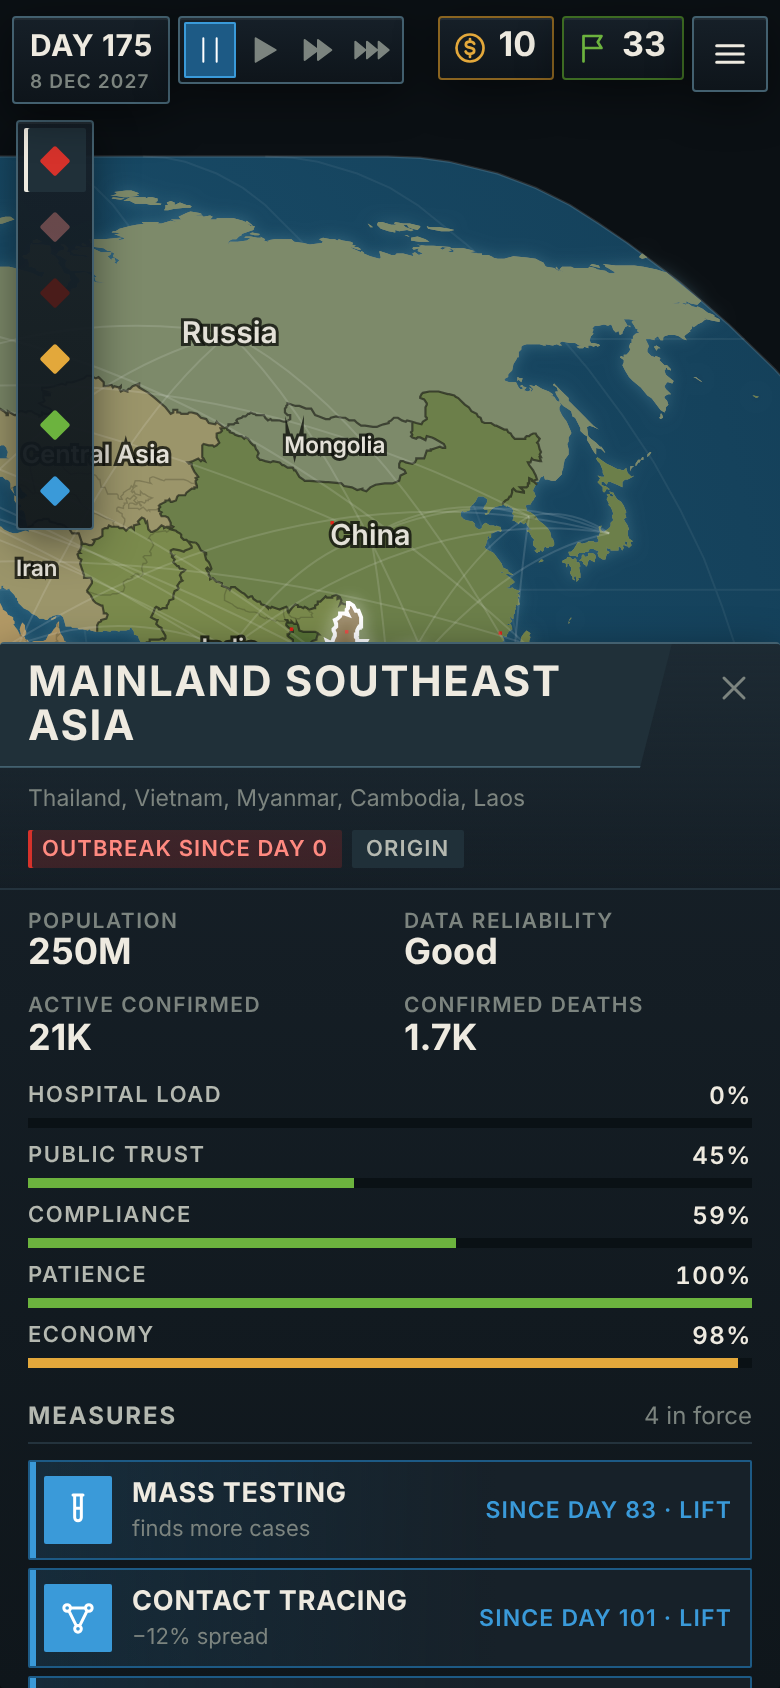
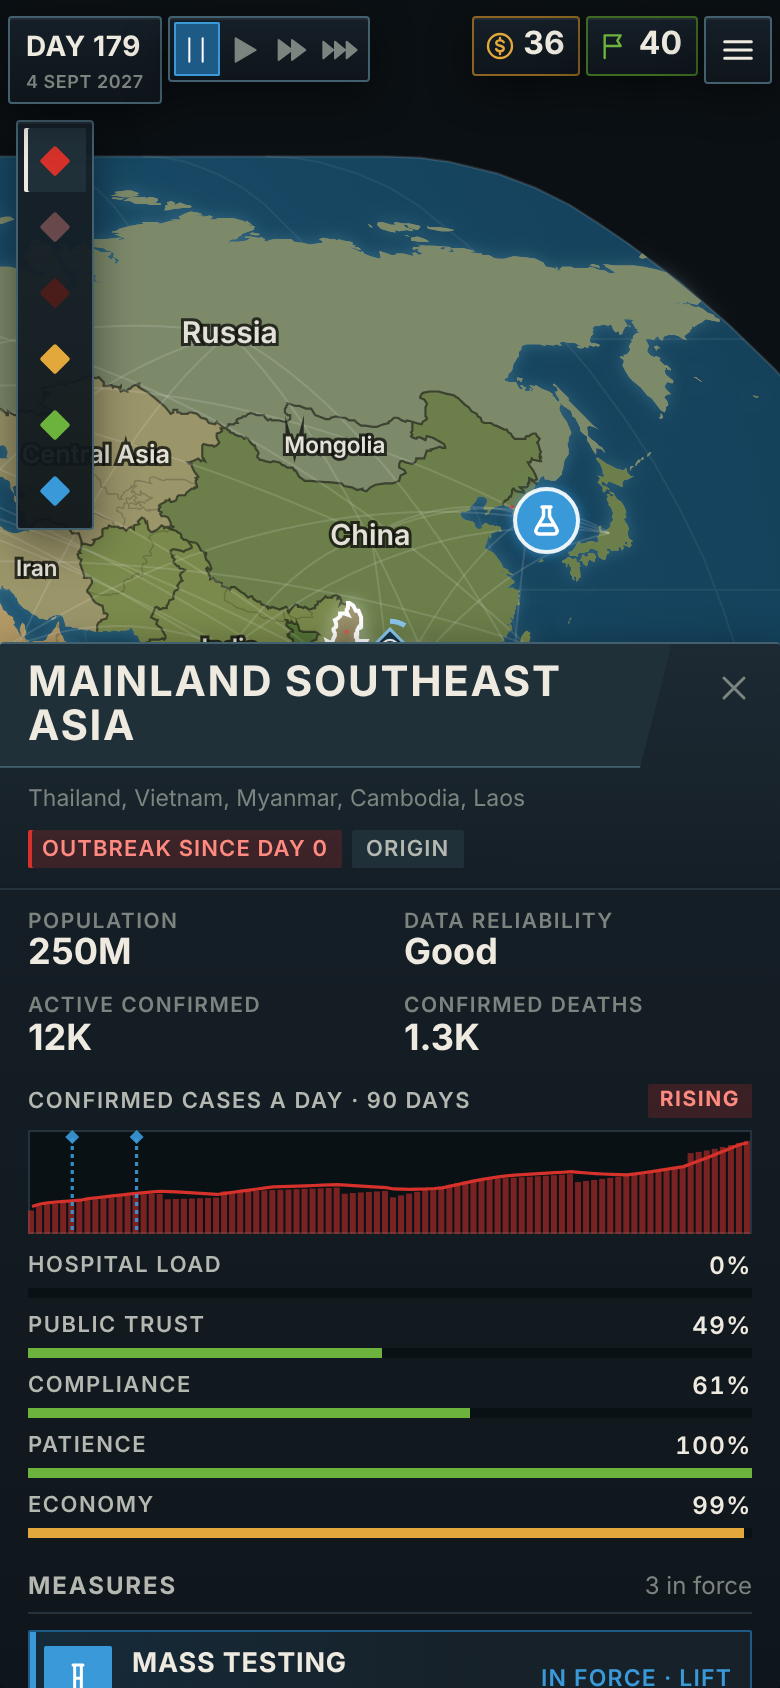
Containment: a little more funding and research on Recruit; fresh screenshots
Claude-Session: https://claude.ai/code/session_01NRe1j8U83UYEwruhxCdPBu

diff --git a/games/containment/index.html b/games/containment/index.html
@@ -829,7 +829,7 @@ const DIFFICULTY = {
   recruit: {
     id: 'recruit', name: 'Recruit',
     blurb: 'Generous funding, a slow-witted pathogen and forgiving publics. Learn how the response fits together.',
-    funding: 26, authority: 12, income: 1.4, auth: 1.4, research: 1.3, evo: .45, aiSharp: .5, silentSeeds: 0,
+    funding: 26, authority: 12, income: 1.55, auth: 1.4, research: 1.42, evo: .45, aiSharp: .5, silentSeeds: 0,
     detect: 1, trustDecay: .65, deathLimit: 1.8, eventHarm: .65, hoard: .7, bubble: 1.25, roll: .5, deploy: .6,
   },
   regular: {
